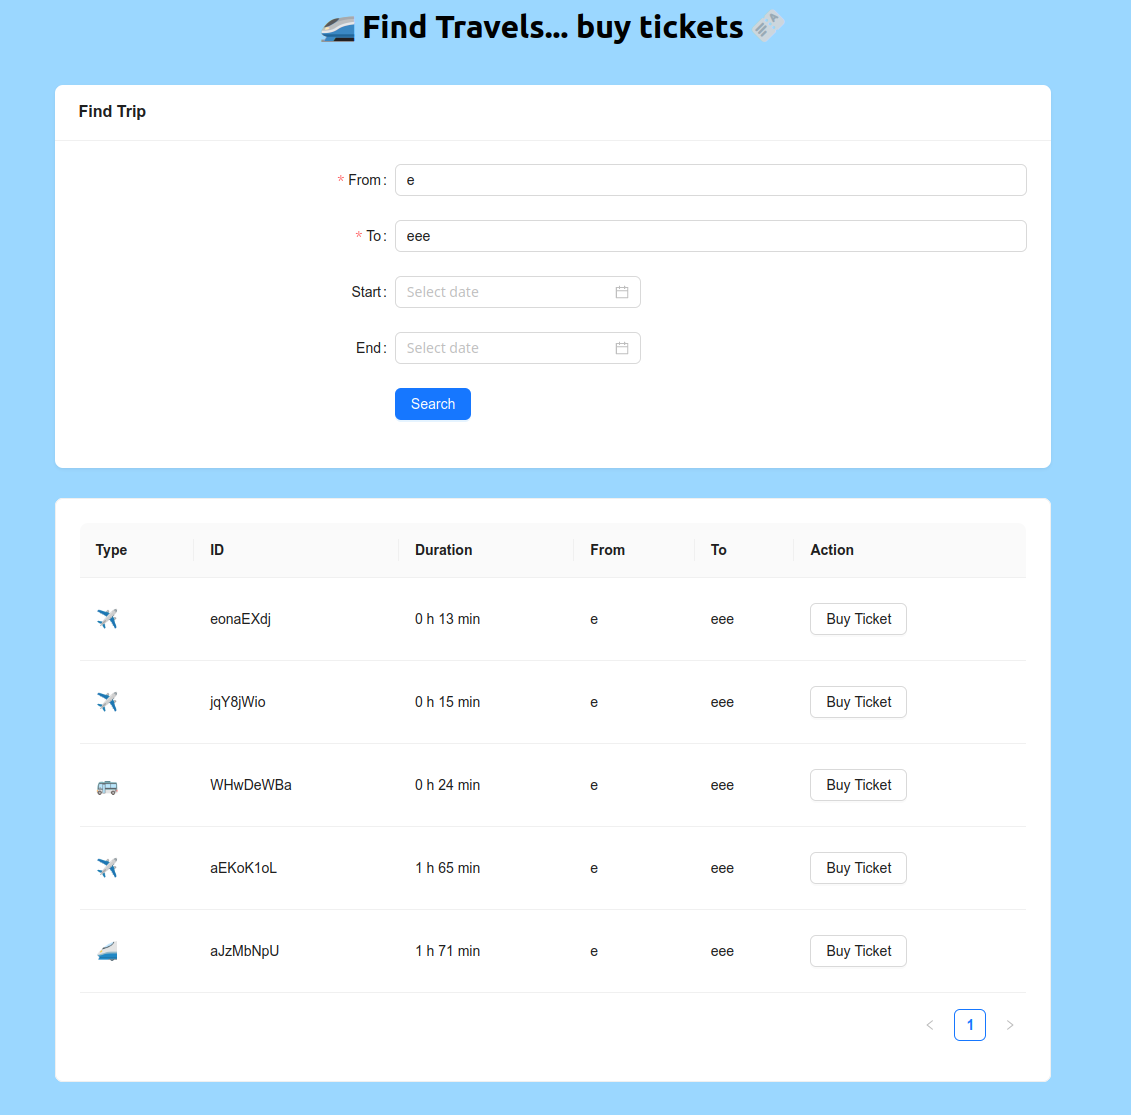
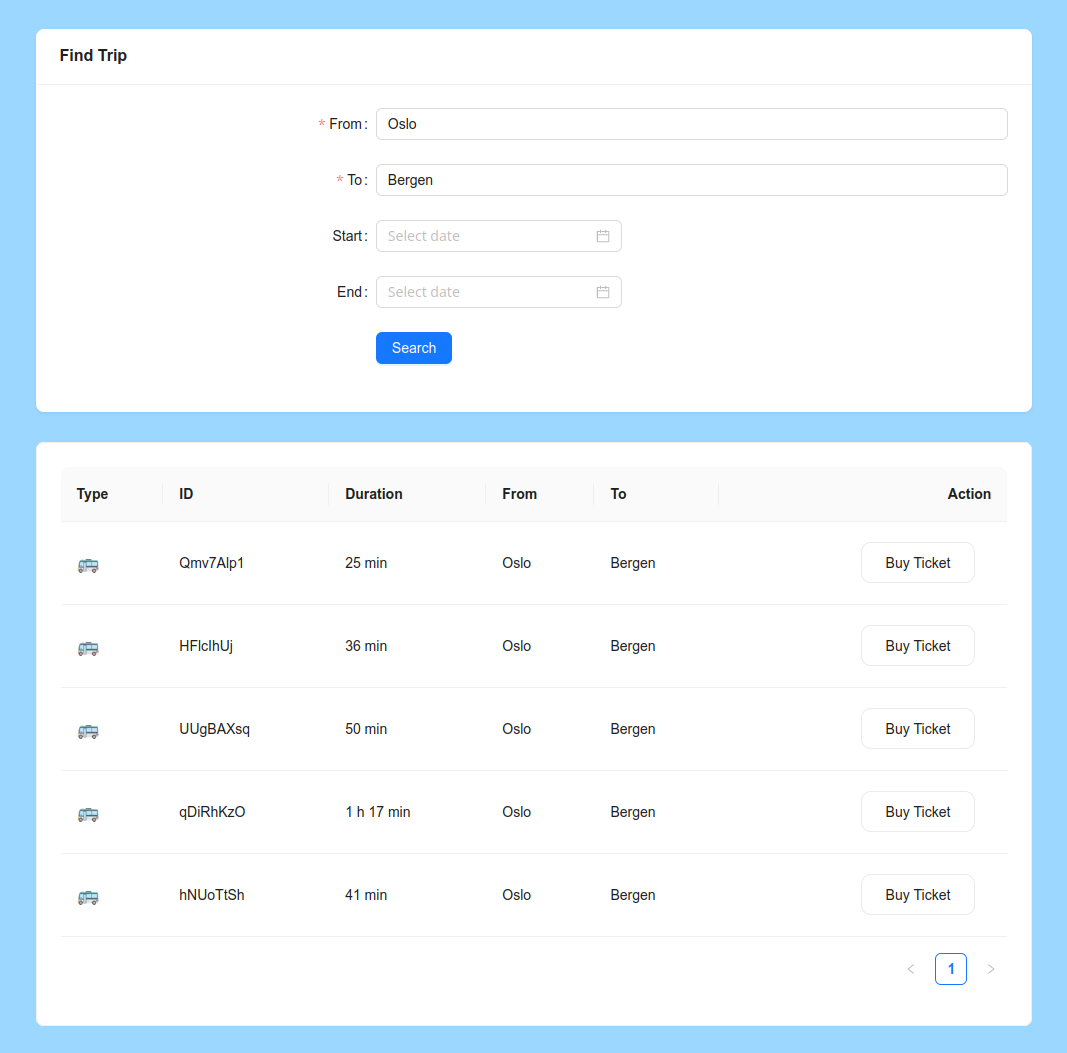
fix table minutes / hour rendering bug! :) + new screenshot

diff --git a/components/TripTable.tsx b/components/TripTable.tsx
@@ -3,6 +3,7 @@ import { Button, Space, Table, Tag } from "antd";
 import type { ColumnsType } from "antd/es/table";
 import * as moment from "moment";
 import styles from "../styles/Home.module.css";
+import Link from "next/link";
 
 interface DataType {
   id: string;
@@ -36,9 +37,10 @@ const columns: ColumnsType<DataType> = [
     key: "estDuration",
     render: (minutes) => {
       const timeData = moment.duration(minutes, "minutes")
-      const mins = timeData.asMinutes().toFixed();
-      const hours = timeData.asHours().toFixed();
-      const humanTime = `${hours ? hours + " h" : ""} ${mins ? mins + " min" : ""}`
+      const hours = Math.floor(timeData.asHours());
+      const hourAsMins = parseInt(moment.duration(hours, "h").asMinutes().toFixed());
+      const mins = parseInt(timeData.asMinutes().toFixed()) - hourAsMins;
+      const humanTime = `${!!hours ? hours + " h" : ""} ${!!mins ? mins + " min" : ""}`
       return <p>{humanTime}</p>;
     },
   },
@@ -55,9 +57,12 @@ const columns: ColumnsType<DataType> = [
   {
     title: "Action",
     key: "action",
+    align: "right",
     render: (_, record) => (
       <Space size="middle">
-        <Button>Buy Ticket</Button>
+        <Link href="/purchase" className={styles.linkButton} id={styles.about}>
+          Buy Ticket
+        </Link>
       </Space>
     ),
   },

diff --git a/styles/Home.module.css b/styles/Home.module.css
@@ -144,3 +144,23 @@
   font-size: large;
   margin: 0;
 }
+
+.linkButton {
+  margin: 0 1rem;
+  padding: 0.7rem 1.5rem;
+  text-align: left;
+  color: inherit;
+  text-decoration: none;
+  border: 1px solid #eaeaea;
+  border-radius: 10px;
+  transition: color 0.15s ease, border-color 0.15s ease;
+  width: 55%;
+  background-color: white;
+}
+
+.linkButton:hover,
+.linkButton:focus,
+.linkButton:active {
+  color: #0070f3;
+  border-color: #0070f3;
+}

diff --git a/pages/purchase.tsx b/pages/purchase.tsx
@@ -1,9 +1,11 @@
+import { Button } from 'antd'
 import styles from '../styles/Home.module.css'
 
 export default function About() {
   return (
     <div className={styles.container}>
-      <p>purchase page</p>
+      <p>purchase page (stripe / vipps integration... etc!)</p>
+      <Button>Confirm Purchase</Button>
     </div>
   )
 }
